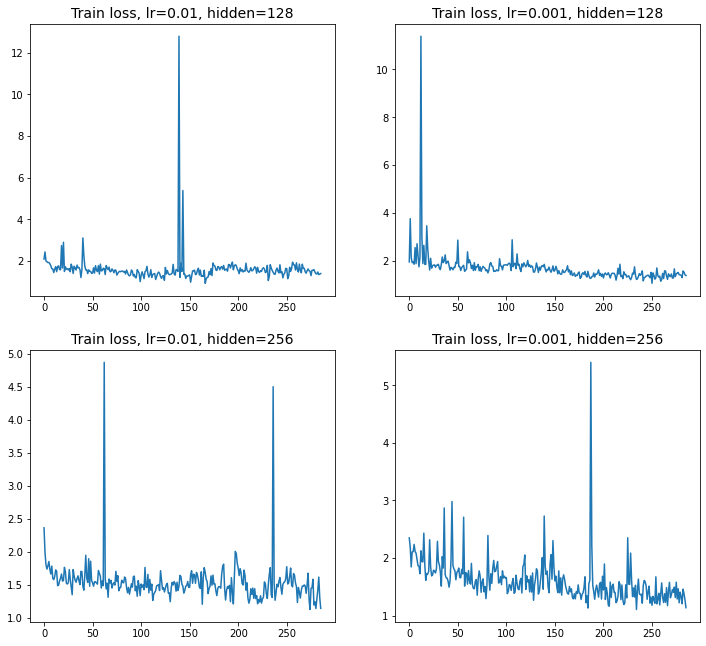
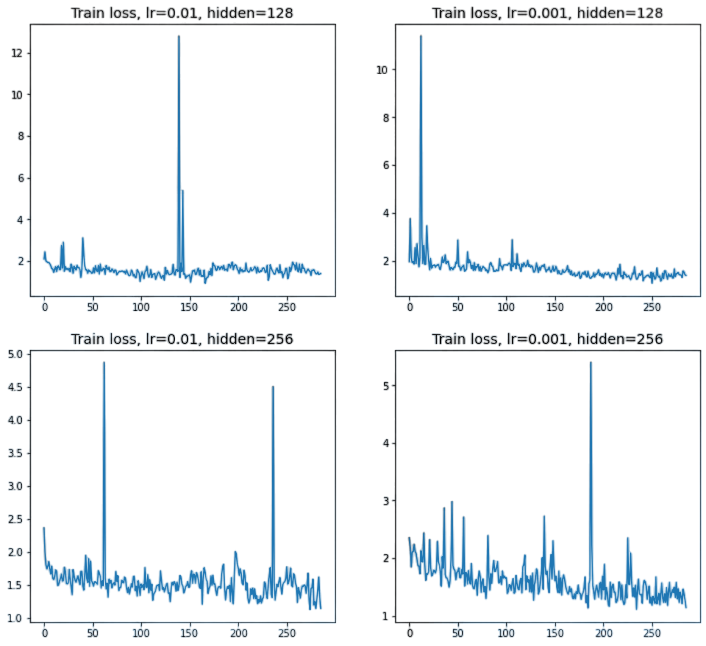
White background on loss image

diff --git a/README.md b/README.md
@@ -92,8 +92,6 @@ Test accuracy: 0.643
 
 Test accuracy: 0.547
 
-Please use light mode to properly view the titles and labels on the following graphs:
-
 <p align="left" width="100%">
 <img src="./img/nn_losses.png" width="80%" height="35%">
 </p>
